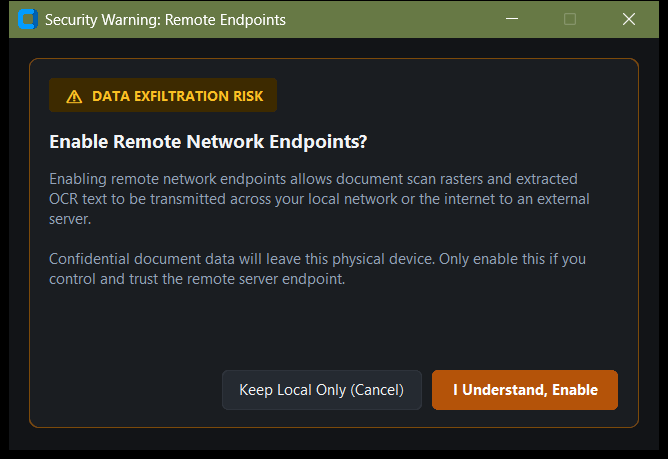
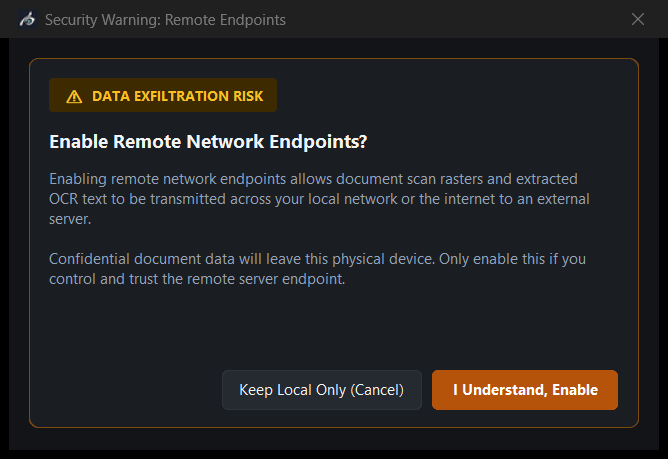
docs: regenerate stale visual previews with AksaraSight branding and Calm Trust palette

Changed region(s): [[0.0, 0.0, 1.0, 0.0915]]

diff --git a/scripts/capture_gui_screenshot.py b/scripts/capture_gui_screenshot.py
@@ -16,6 +16,7 @@ from PIL import Image
 
 from config.settings import Settings
 from core.models import JobStatus, OCRResult, PageResult
+from core.server_manager import ServerOwnership, ServerStatus, ServerStatusInfo
 from gui.app import (
     COLOR_INTERACTIVE_NEUTRAL,
     COLOR_ROW_SELECTED_BG,
@@ -197,7 +198,7 @@ def main() -> None:
 
         # Select the success item to display full preview, markdown, JSON, and enabled export buttons
         app._select_queue_item(id_success)
-        app._tabview.set("Text Preview")
+        app.select_tab("Text Preview")
 
         # Allow layout calculations and animations to stabilize
         app.update()
@@ -225,8 +226,99 @@ def main() -> None:
         # Clean shutdown
         app._on_closing()
 
+        # Capture live backend scenario
+        capture_live_backend_preview(temp_dir, out_dir, artifact_dir)
+
     finally:
         shutil.rmtree(temp_dir, ignore_errors=True)
+
+
+def capture_live_backend_preview(temp_dir: Path, out_dir: Path, artifact_dir: Path) -> None:
+    """Capture live backend scenario with managed server status and completed contract extraction."""
+    f_contract = temp_dir / "sample_contract.pdf"
+    f_contract.write_bytes(b"x" * 59_800)
+
+    mock_engine = MagicMock()
+    app = OCRApp(settings=Settings(auto_start_server=False), engine=mock_engine)
+    app.geometry("1020x640+20+10")
+    app._task_queue.put = lambda item, *args, **kwargs: None
+
+    app.enqueue_file(f_contract)
+    id_contract = str(f_contract.resolve())
+
+    contract_md = (
+        "MASTER SERVICES AGREEMENT\n\n"
+        "This Agreement is entered into on September 13, 2026, by and between:\n"
+        "Client: Enterprise Global LLC\n"
+        "Vendor: AI Local Solutions Inc.\n\n"
+        "1. SCOPE OF SERVICES\n"
+        "The Vendor shall provide local vision and OCR pipeline development services, including on-device document intelligence and schema extraction.\n\n"
+        "2. DELIVERABLES\n"
+        "Deliverable 1: Local Vision Inference Client (llama.cpp integration)\n"
+        "Deliverable 2: Batch PDF Rasterization Pipeline (pypdfium2)\n"
+        "Deliverable 3: Desktop GUI Studio (CustomTkinter)\n\n"
+        "[Page 1 of 2]\n\n"
+        "---\n\n"
+        "3. PAYMENT & FEES\n"
+        "The Client agrees to compensate the Vendor within 30 days of invoice delivery. Total Contract Value: $7,500.00 USD.\n\n"
+        "4. CONFIDENTIALITY\n"
+        "All document data processed locally shall remain strictly on-premise. No telemetry or external network calls are permitted under any circumstances.\n\n"
+        "SIGNATURES\n\n"
+        "Client Representative: ____________  Date: 2026-09-13\n"
+        "Vendor Representative: ____________  Date: 2026-09-13\n\n"
+        "[Page 2 of 2]"
+    )
+
+    parts = contract_md.split("---")
+    res = OCRResult(
+        file_path=id_contract,
+        status=JobStatus.SUCCESS,
+        total_duration=5.2,
+        pages=[
+            PageResult(page_num=1, markdown=parts[0].strip(), latency=2.6),
+            PageResult(page_num=2, markdown=parts[1].strip(), latency=2.6),
+        ],
+    )
+    item = app._queue_items[id_contract]
+    item.status = QueueItemStatus.SUCCESS
+    item.duration = 5.2
+    item.result = res
+    item.badge_label.configure(text="●", text_color=COLOR_STATUS_SUCCESS)
+    item.detail_label.configure(text=app._format_queue_item_meta(item))
+
+    # Configure server status as READY (Managed)
+    info = ServerStatusInfo(
+        status=ServerStatus.READY,
+        ownership=ServerOwnership.MANAGED,
+        message="Server is operational and responsive",
+        endpoint="http://127.0.0.1:8080/v1",
+    )
+    app._apply_server_status_update(info)
+
+    # Update queue counter header & footer
+    app._total_count = 1
+    app._success_count = 1
+    app._failed_count = 0
+    app._update_queue_header()
+    app._update_footer("Done: sample_contract.pdf (SUCCESS)")
+
+    # Select the contract item and activate Raw Markdown tab
+    app._select_queue_item(id_contract)
+    app.select_tab("Raw Markdown")
+
+    # Allow layout to stabilize
+    app.update()
+    app.update_idletasks()
+    time.sleep(0.5)
+    app.update()
+
+    img_live = capture_window_to_image(app)
+    out_live = out_dir / "gui_live_backend_preview.png"
+    img_live.save(out_live)
+    img_live.save(artifact_dir / "gui_live_backend_preview.png")
+    print(f"Captured live backend screenshot to: {out_live} (size: {img_live.size})")
+
+    app._on_closing()
 
 
 if __name__ == "__main__":

diff --git a/scripts/capture_settings_screenshot.py b/scripts/capture_settings_screenshot.py
@@ -13,7 +13,7 @@ from PIL import Image
 import customtkinter as ctk
 
 from config.settings import Settings
-from gui.settings_window import SettingsWindow
+from gui.settings_window import SecurityConfirmationDialog, SettingsWindow
 
 
 def capture_window_to_image(window) -> Image.Image:
@@ -124,6 +124,20 @@ def main() -> None:
     img.save(artifact_path, format="PNG")
     artifact_scrolled_path = artifact_dir / "settings_window_scrolled_preview.png"
     img_scrolled.save(artifact_scrolled_path, format="PNG")
+
+    # Capture SecurityConfirmationDialog
+    sec_dialog = SecurityConfirmationDialog(win)
+    sec_dialog.update_idletasks()
+    sec_dialog.update()
+    time.sleep(0.3)
+    img_sec = capture_window_to_image(sec_dialog)
+    out_sec_path = Path("docs/images/security_confirmation_preview.png").resolve()
+    img_sec.save(out_sec_path, format="PNG")
+    artifact_sec_path = artifact_dir / "security_confirmation_preview.png"
+    img_sec.save(artifact_sec_path, format="PNG")
+    print(f"Saved security preview to: {out_sec_path} ({img_sec.width}x{img_sec.height})")
+    sec_dialog.destroy()
+
     print(f"Saved generated previews to: {artifact_dir}")
 
     win.destroy()

diff --git a/gui/settings_window.py b/gui/settings_window.py
@@ -57,6 +57,17 @@ class SecurityConfirmationDialog(ctk.CTkToplevel):
         self.minsize(480, 300)
         self.configure(fg_color=COLOR_CANVAS_BG)
         self.resizable(False, False)
+        for candidate in [
+            Path(__file__).parent / "assets" / "icon.ico",
+            Path(sys.executable).parent / "_internal" / "gui" / "assets" / "icon.ico",
+            Path(sys.executable).parent / "assets" / "icon.ico",
+        ]:
+            if candidate.is_file():
+                try:
+                    self.iconbitmap(str(candidate))
+                    break
+                except Exception:
+                    pass
 
         try:
             self.transient(parent)
